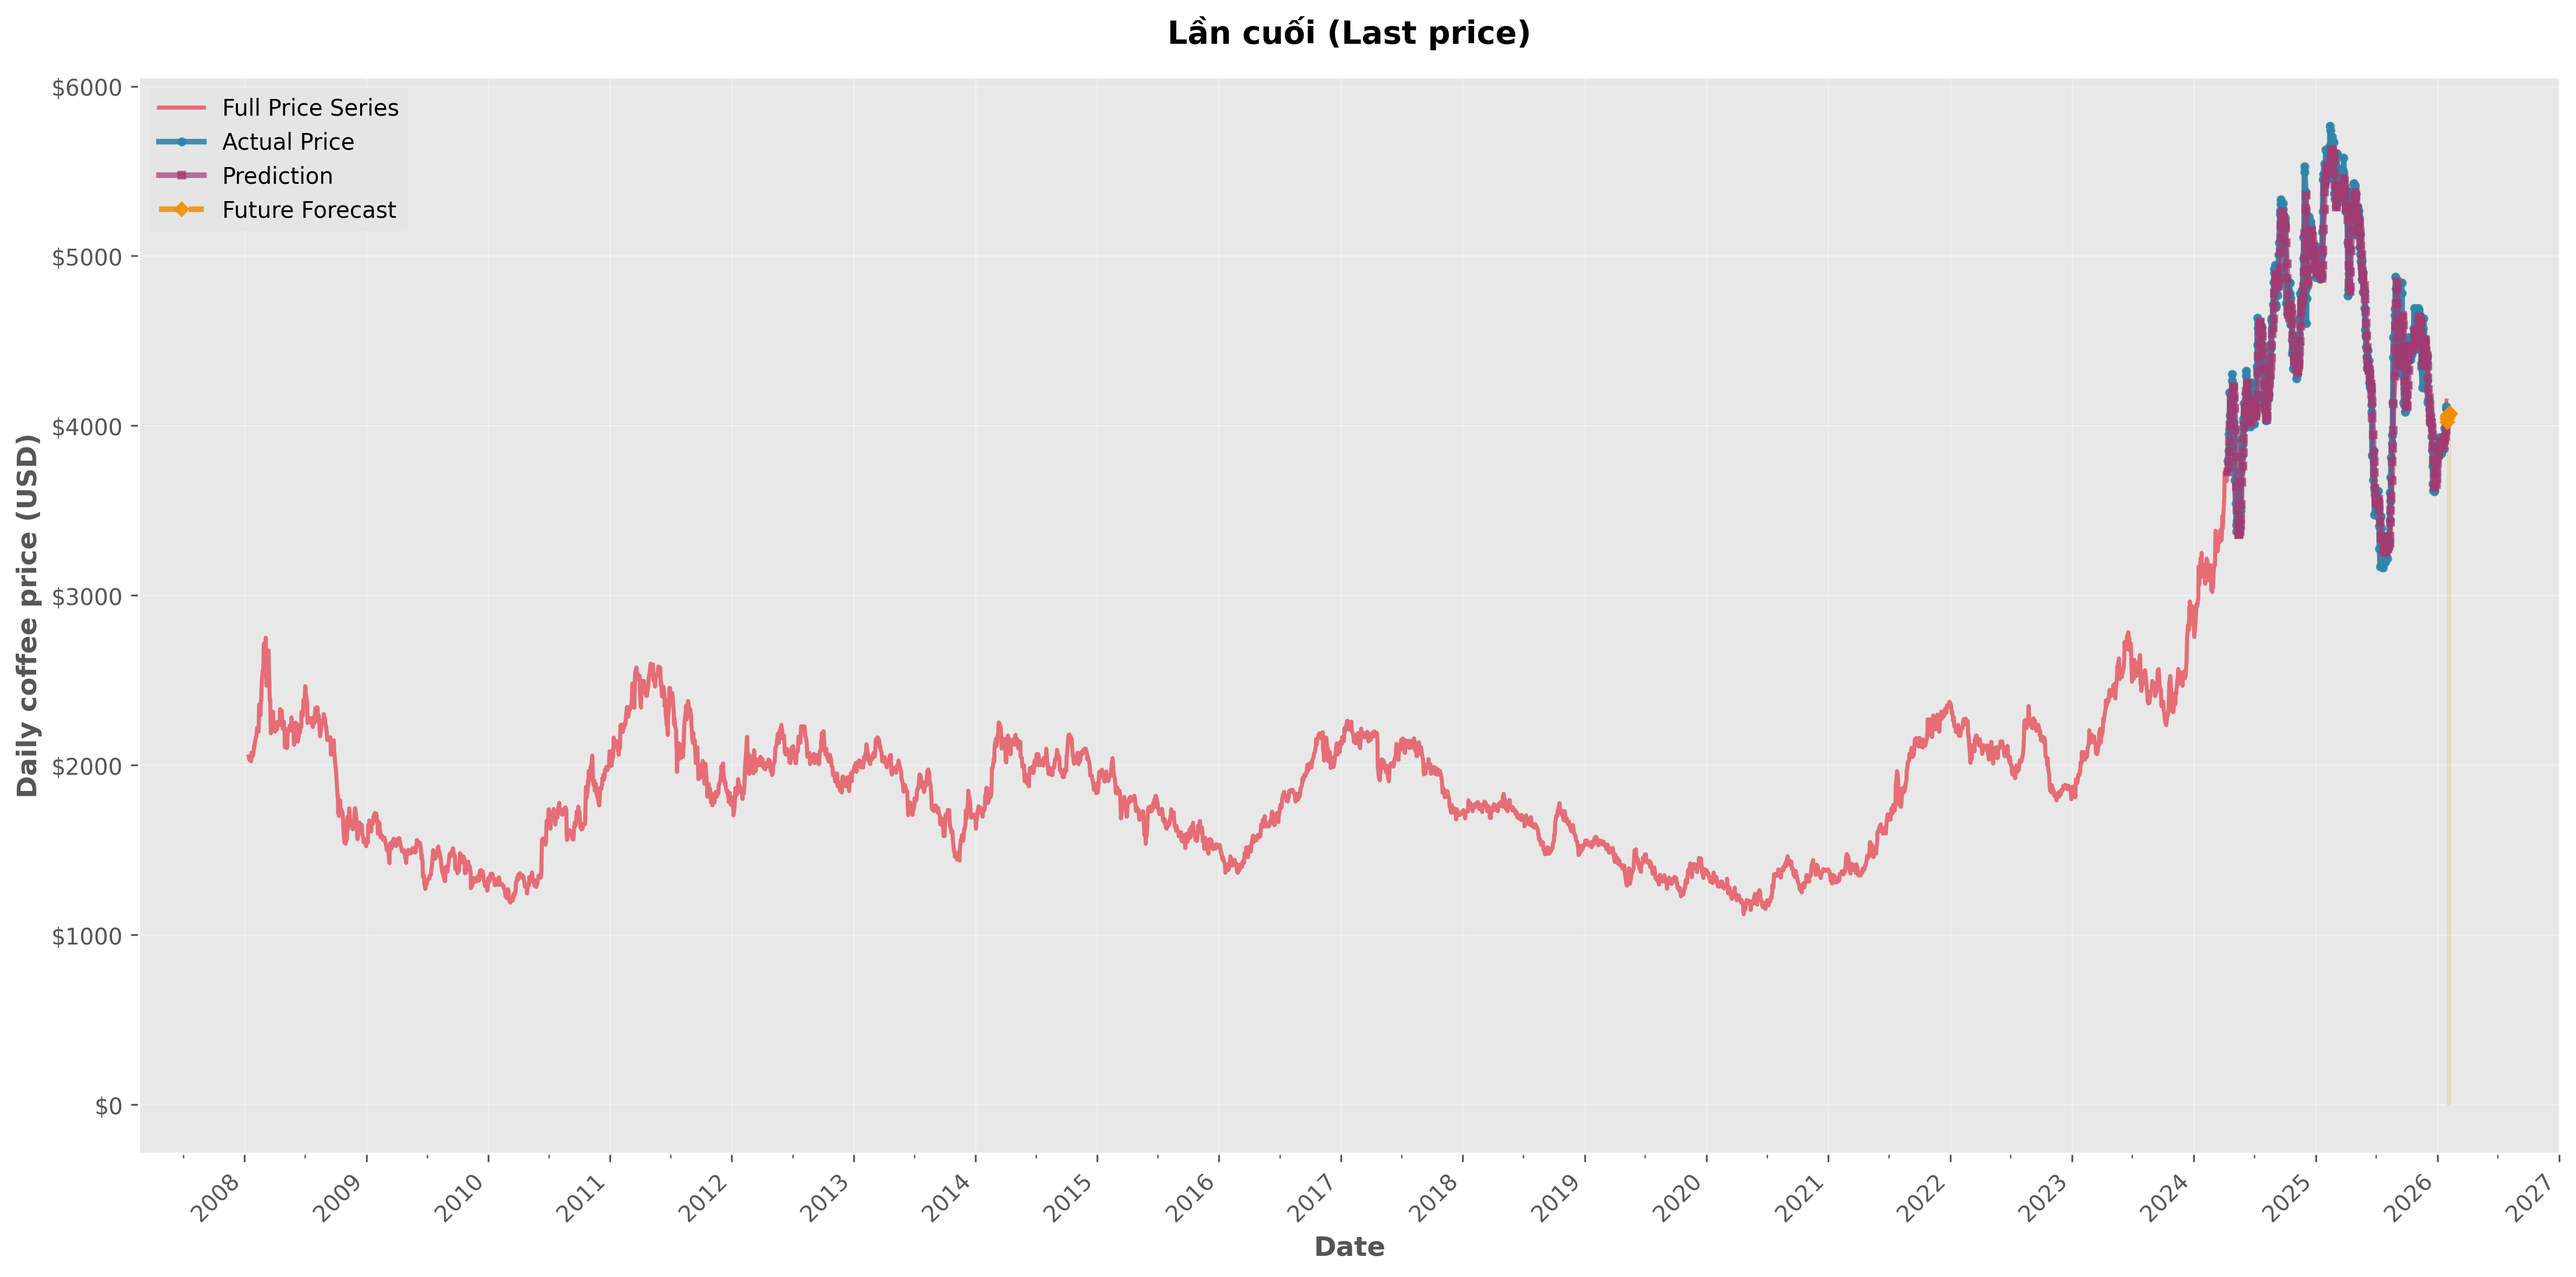
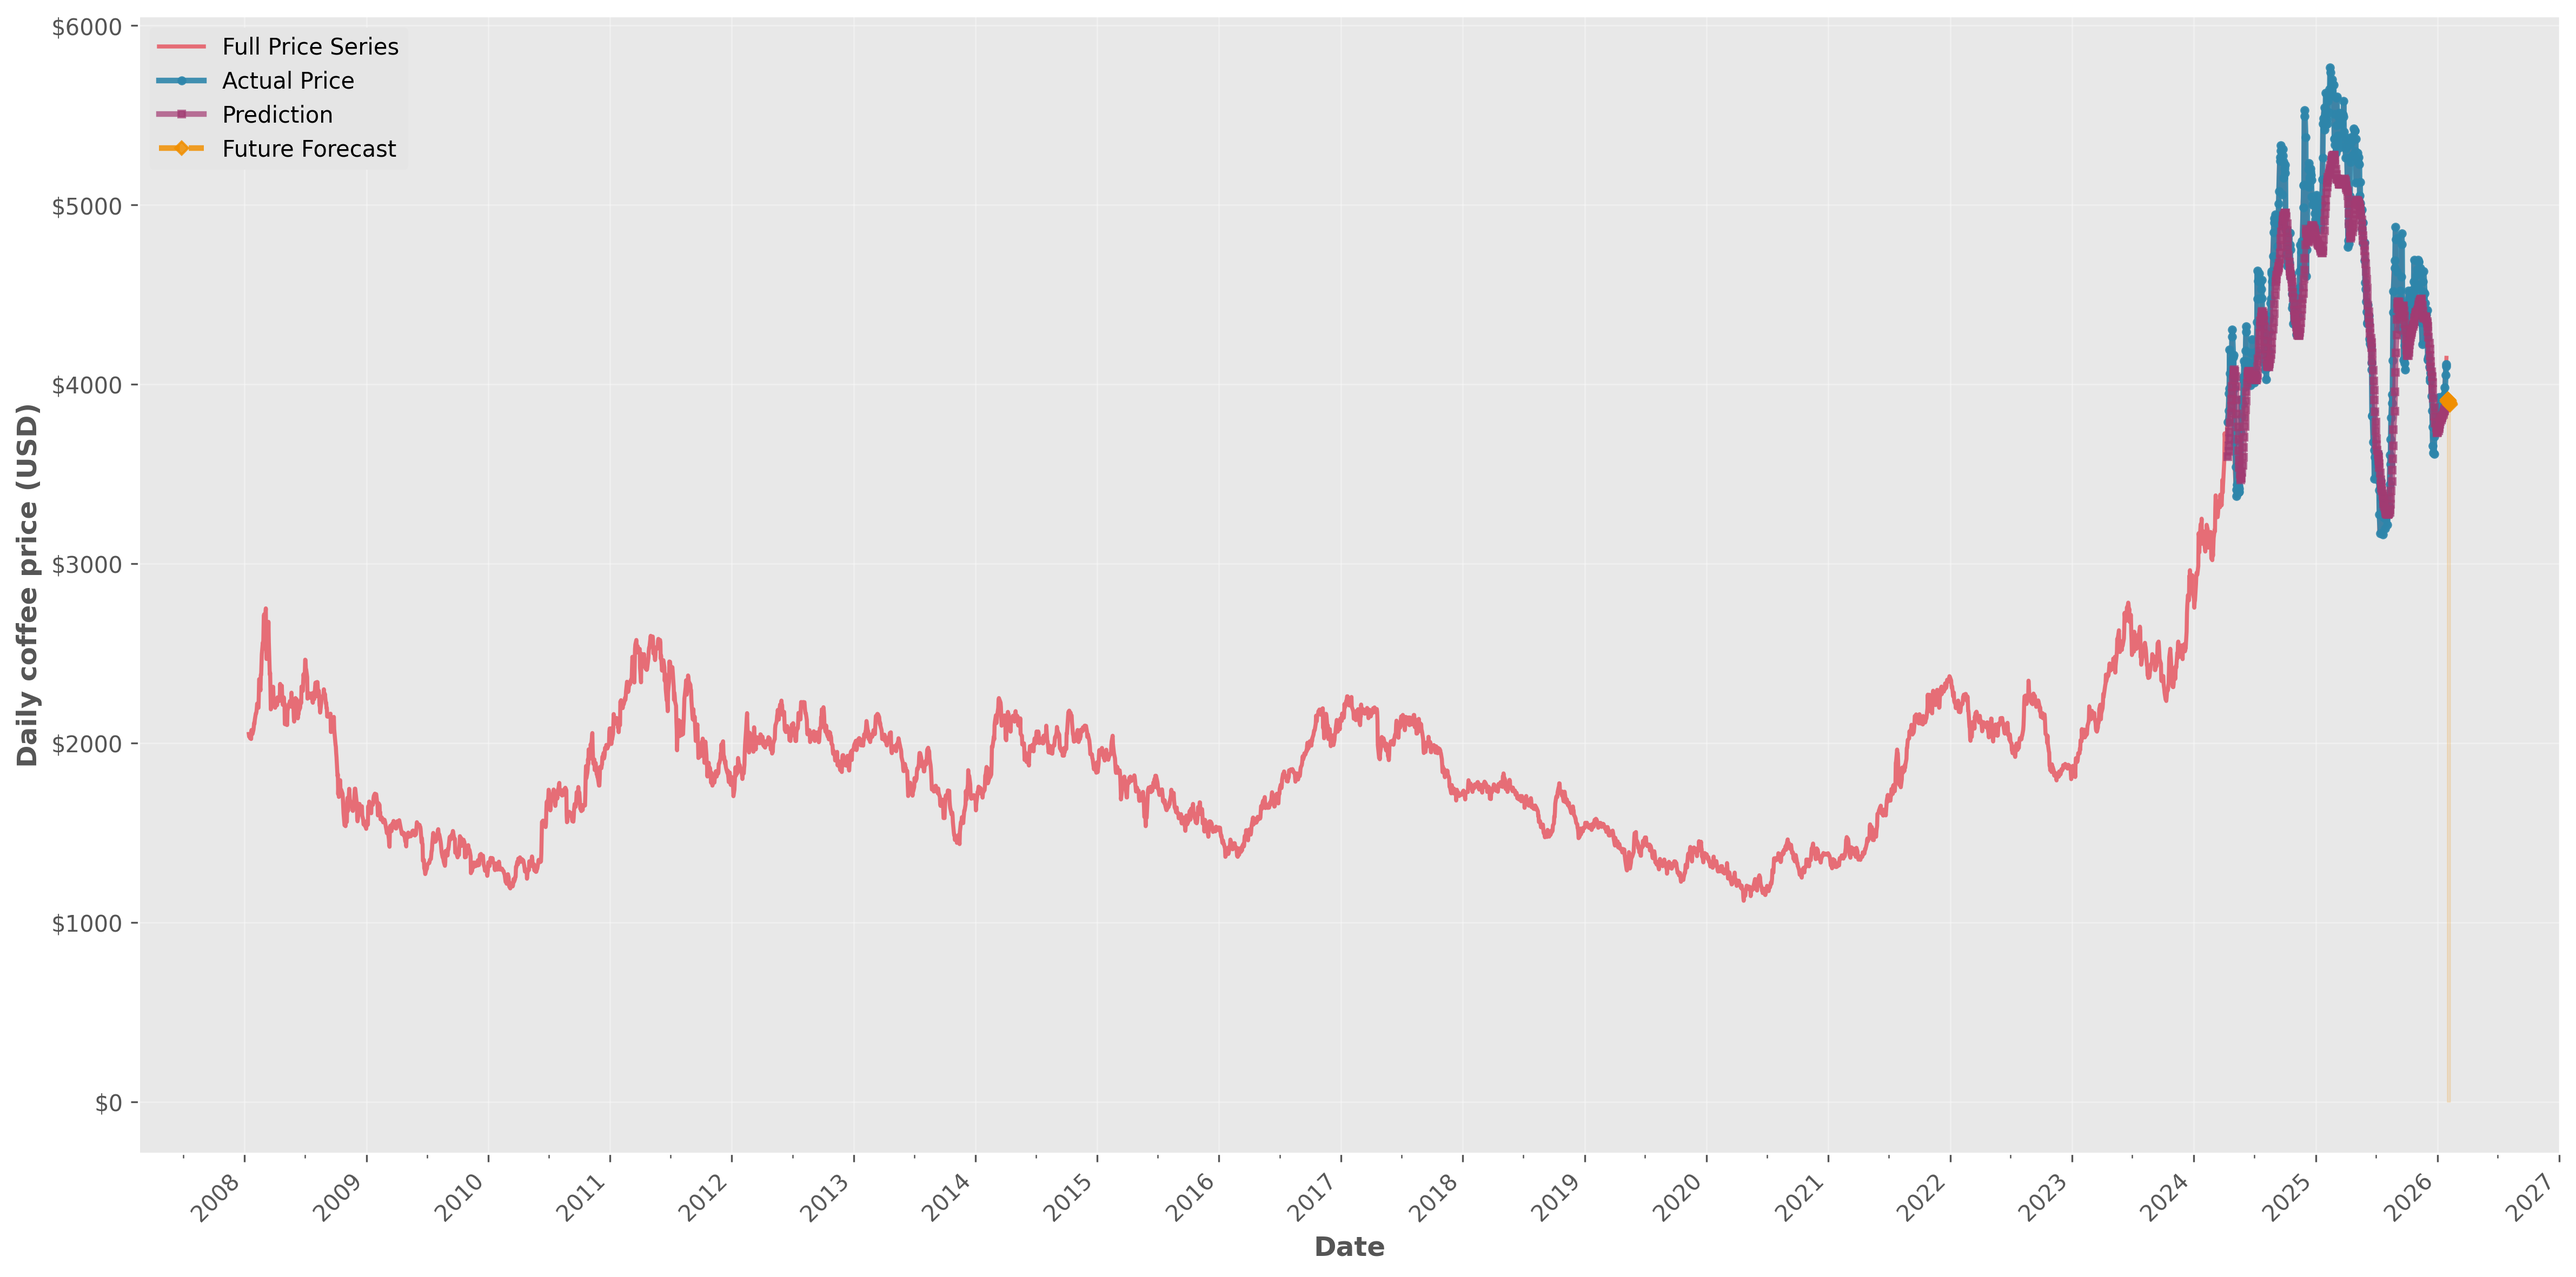
final

diff --git a/lstm_copy.py b/lstm_copy.py
@@ -298,6 +298,85 @@ def plot_results_multiple(y_true, y_pred, predict_len, filename_prefix=None):
     else:
         plt.show()
 
+def plot_train_test_split(filename):
+    """
+    Vẽ biểu đồ phân chia dữ liệu Train/Test dựa trên tỷ lệ TRAIN_DATA_RATE
+    """
+    # Đọc dữ liệu
+    df = pd.read_csv(filename)
+    # Đảo ngược dữ liệu như trong load_data
+    df = df.iloc[::-1].reset_index(drop=True)
+    
+    # Xử lý dữ liệu giá
+    prices = df['Lần cuối'].astype(str).str.replace(',', '').astype(float).values
+    dates = df['Ngày'].values
+    
+    # Tính toán điểm cắt (Split Point)
+    # Lưu ý: Cần trừ đi SEQ_LEN vì load_data cắt bớt đoạn đầu để tạo window
+    data_len = len(prices) - Conf.SEQ_LEN - 1
+    train_size = round(data_len * Conf.TRAIN_DATA_RATE)
+    split_idx = train_size + Conf.SEQ_LEN  # Điểm bắt đầu của test set trên trục thời gian thực
+    
+    # Vẽ biểu đồ
+    plt.figure(figsize=(14, 6))
+    
+    # Vẽ phần Train
+    plt.plot(range(split_idx), prices[:split_idx], label='Training Set', color='blue', linewidth=2)
+    
+    # Vẽ phần Test
+    plt.plot(range(split_idx, len(prices)), prices[split_idx:], label='Test Set', color='orange', linewidth=2)
+    
+    # Đánh dấu điểm cắt
+    plt.axvline(x=split_idx, color='red', linestyle='--', label='Split Point')
+    
+    # Trang trí biểu đồ
+    plt.title('Data Split: Training Set vs Test Set', fontsize=14, fontweight='bold')
+    plt.xlabel('Timeline (Days)', fontsize=12)
+    plt.ylabel('Price', fontsize=12)
+    plt.legend()
+    plt.grid(True, alpha=0.3)
+    
+    # Lưu hoặc hiển thị
+    results_dir = os.path.join(os.path.dirname(__file__), 'results')
+    os.makedirs(results_dir, exist_ok=True)
+    save_path = os.path.join(results_dir, 'data_split.png')
+    plt.savefig(save_path)
+    print(f"> Saved train/test split plot to {save_path}")
+    plt.show() # Hoặc plt.close() nếu không muốn hiện cửa sổ
+
+def correlation(x, y):
+    """
+    Tính hệ số tương quan Pearson thủ công (Manual implementation)
+    """
+    # === PHẦN SỬA ĐỔI ===
+    # Đảm bảo input là list 1 chiều, tránh lỗi nếu đưa vào numpy array (N, 1)
+    if hasattr(x, 'flatten'): x = x.flatten().tolist()
+    if hasattr(y, 'flatten'): y = y.flatten().tolist()
+    # ====================
+
+    # Finding the mean of the series x and y
+    mean_x = sum(x) / float(len(x))
+    mean_y = sum(y) / float(len(y))
+    
+    # Subtracting mean from the individual elements
+    sub_x = [i - mean_x for i in x]
+    sub_y = [i - mean_y for i in y]
+    
+    # covariance for x and y
+    numerator = sum([sub_x[i] * sub_y[i] for i in range(len(sub_x))])
+    
+    # Standard Deviation of x and y
+    std_deviation_x = sum([sub_x[i]**2.0 for i in range(len(sub_x))])
+    std_deviation_y = sum([sub_y[i]**2.0 for i in range(len(sub_y))])
+    
+    # squaring by 0.5 to find the square root
+    # Tránh lỗi chia cho 0 nếu độ lệch chuẩn bằng 0
+    denominator = (std_deviation_x * std_deviation_y)**0.5
+    if denominator == 0:
+        return 0
+        
+    cor = numerator / denominator
+    return cor
 
 def main():
     global_start_time = time.time()
@@ -307,7 +386,7 @@ def main():
     # sin: sin.csv; stock: stock.csv; coffee: coffee_price.csv
     filename = '/workspaces/demo/coffee_price.csv'
     X_train, y_train, X_test, y_test, test_base_prices, dates, scaler = load_data(filename)
-
+    plot_train_test_split(filename)
     print('> Data Loaded. Compiling...')
 
     model = build_model(Conf.LAYERS)
@@ -344,7 +423,8 @@ def main():
 
     plot_results(y_test_denorm, predicted_denorm, filename=os.path.join(results_dir, 'prediction_price.png'), future_pred=future_prices, dates=dates, full_prices=full_prices, full_dates=full_dates)
     # plot_results_multiple(y_test, predicted, Conf.SEQ_LEN, filename_prefix=os.path.join(results_dir, 'prediction_multiple'))
-
+    r_score = correlation(y_test_denorm, predicted_denorm)
+    print(f"\n> Correlation Coefficient (Manual Calculation): {r_score:.4f}")
     model_evaluation(pd.DataFrame(y_test_denorm), pd.DataFrame(predicted_denorm))
 
 if __name__ == '__main__':
